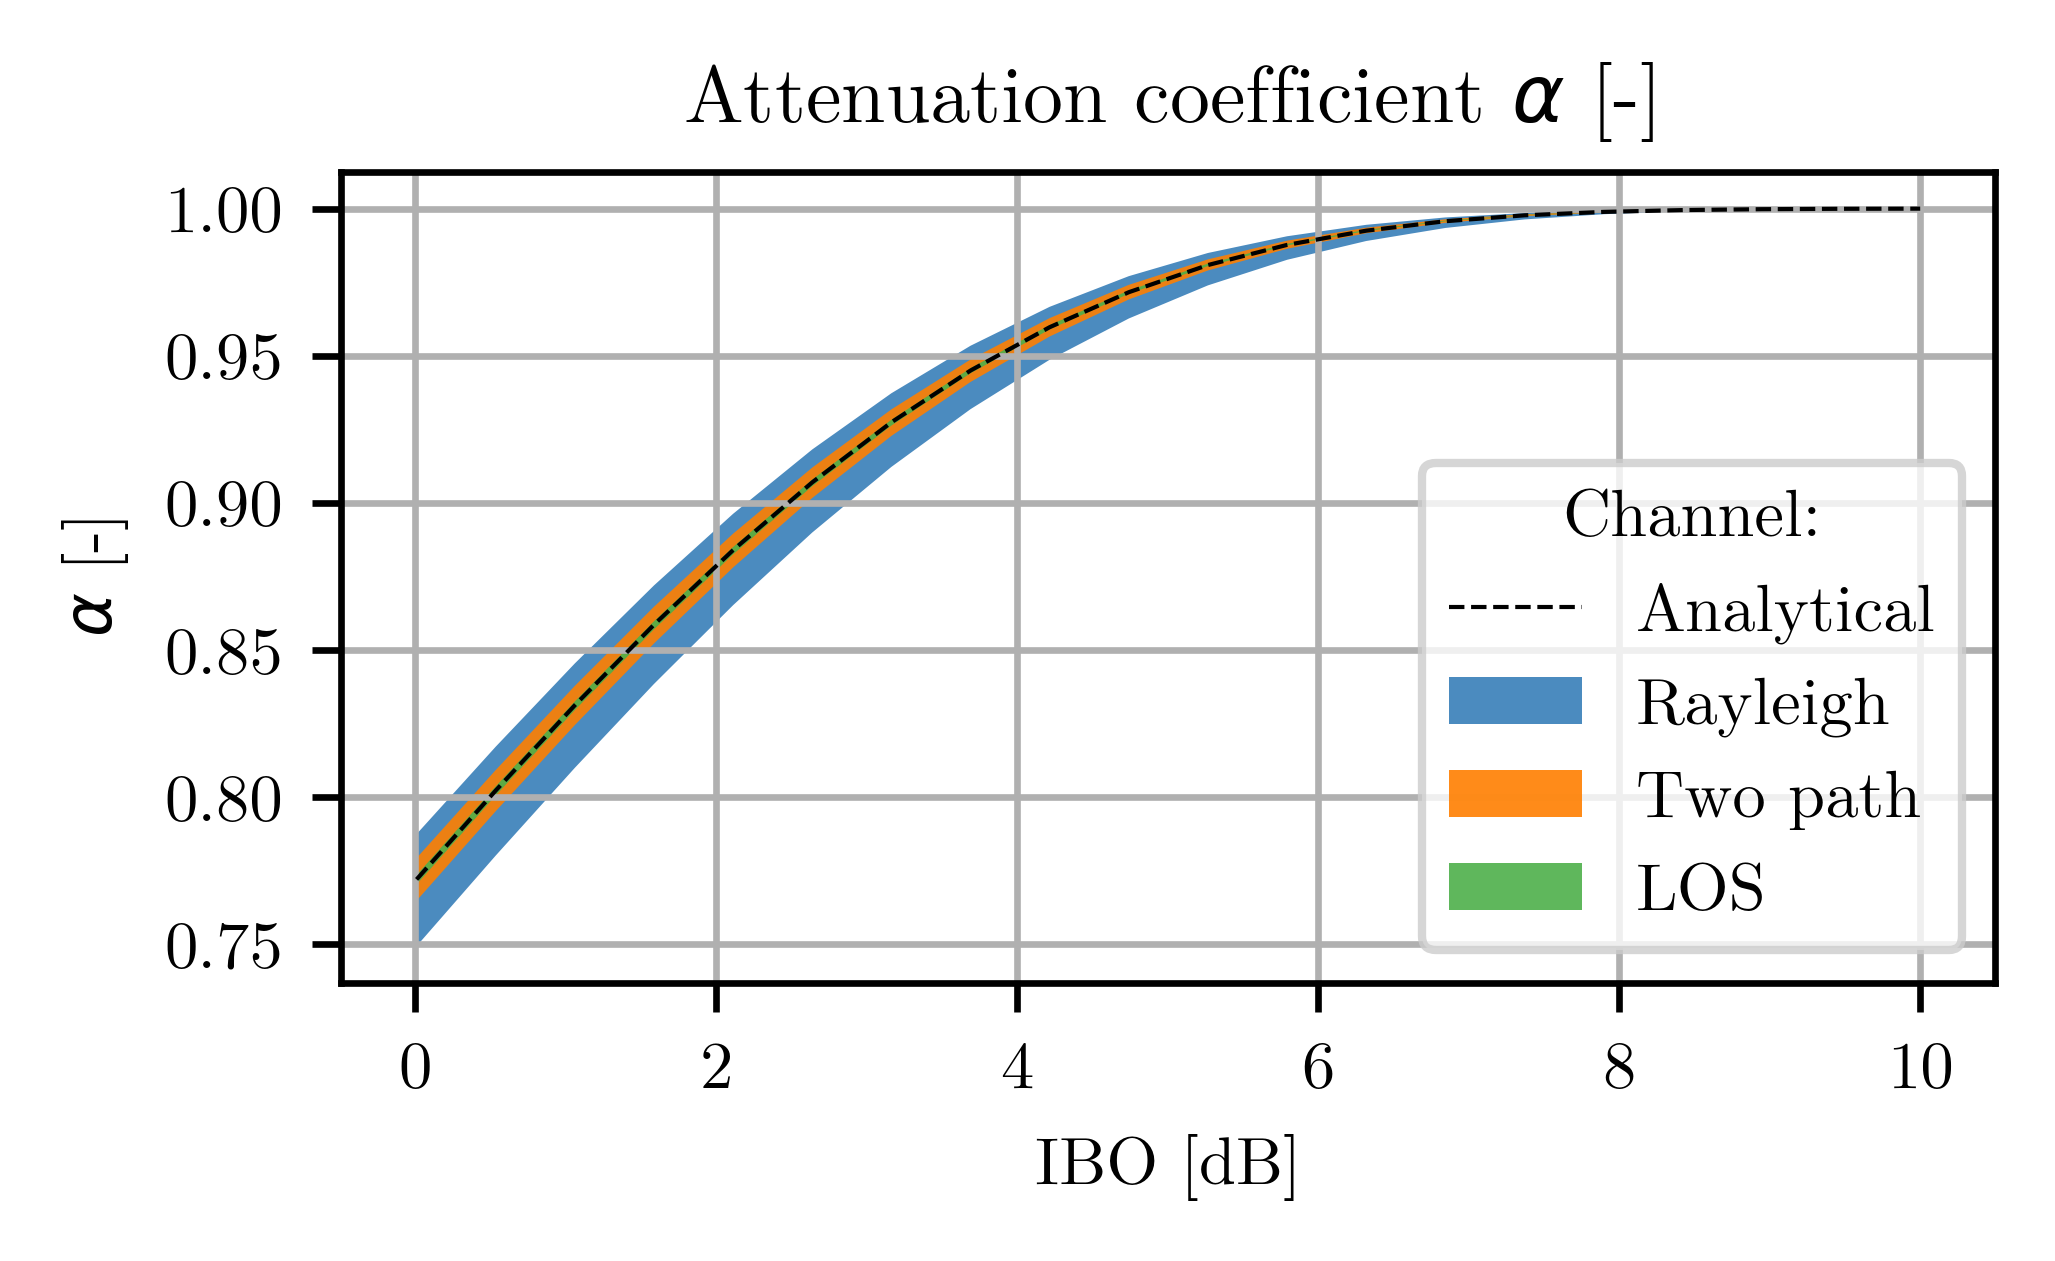
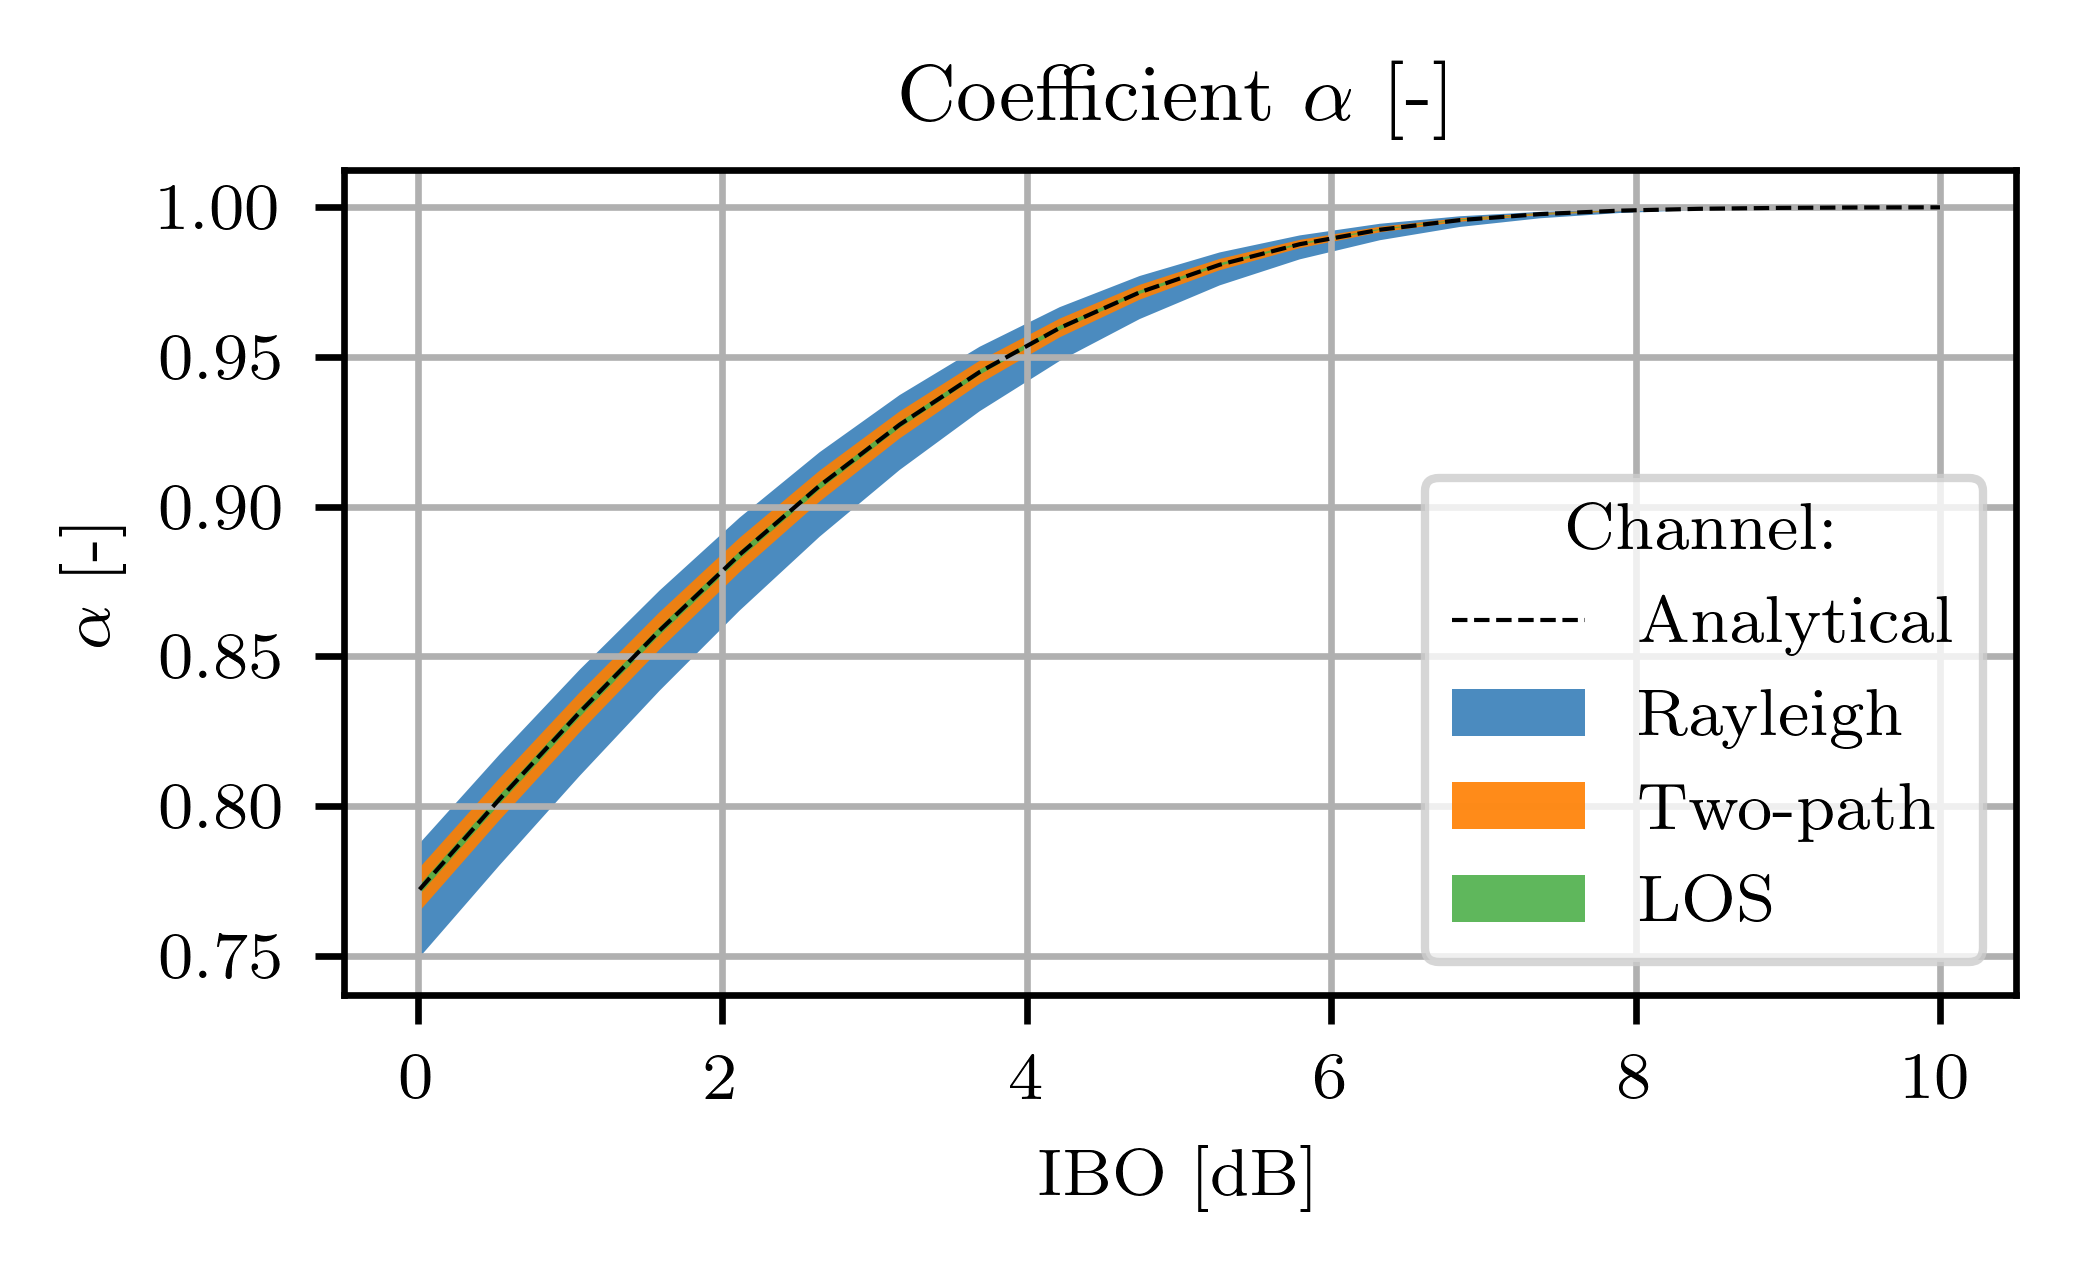
minor changes to alpha coeff eval

diff --git a/main_alpha_dist_coefficient_eval.py b/main_alpha_dist_coefficient_eval.py
@@ -105,11 +105,11 @@ for chan_idx, chan_obj in enumerate(chan_lst):
 # %%
 fig1, ax1 = plt.subplots(1, 1)
 ax1.fill_between(ibo_arr, np.amin(lambda_per_nant_per_ibo[0, :, :], axis=1), np.amax(lambda_per_nant_per_ibo[0, :, :], axis=1), alpha=0.9, label="Rayleigh")
-ax1.fill_between(ibo_arr, np.amin(lambda_per_nant_per_ibo[1, :, :], axis=1), np.amax(lambda_per_nant_per_ibo[1, :, :], axis=1), alpha=0.9, label="Two path")
+ax1.fill_between(ibo_arr, np.amin(lambda_per_nant_per_ibo[1, :, :], axis=1), np.amax(lambda_per_nant_per_ibo[1, :, :], axis=1), alpha=0.9, label="Two-path")
 ax1.fill_between(ibo_arr, np.amin(lambda_per_nant_per_ibo[2, :, :], axis=1), np.amax(lambda_per_nant_per_ibo[2, :, :], axis=1), alpha=0.9, label="LOS")
 ax1.plot(ibo_arr, lambda_per_ibo_analytical, 'k--', label="Analytical", linewidth=0.5,)
 
-ax1.set_title(r"Attenuation coefficient $\alpha$ [-]")
+ax1.set_title(r"Coefficient $\alpha$ [-]")
 ax1.set_xlabel("IBO [dB]")
 ax1.set_ylabel(r"$\alpha$ [-]")
 ax1.grid()
